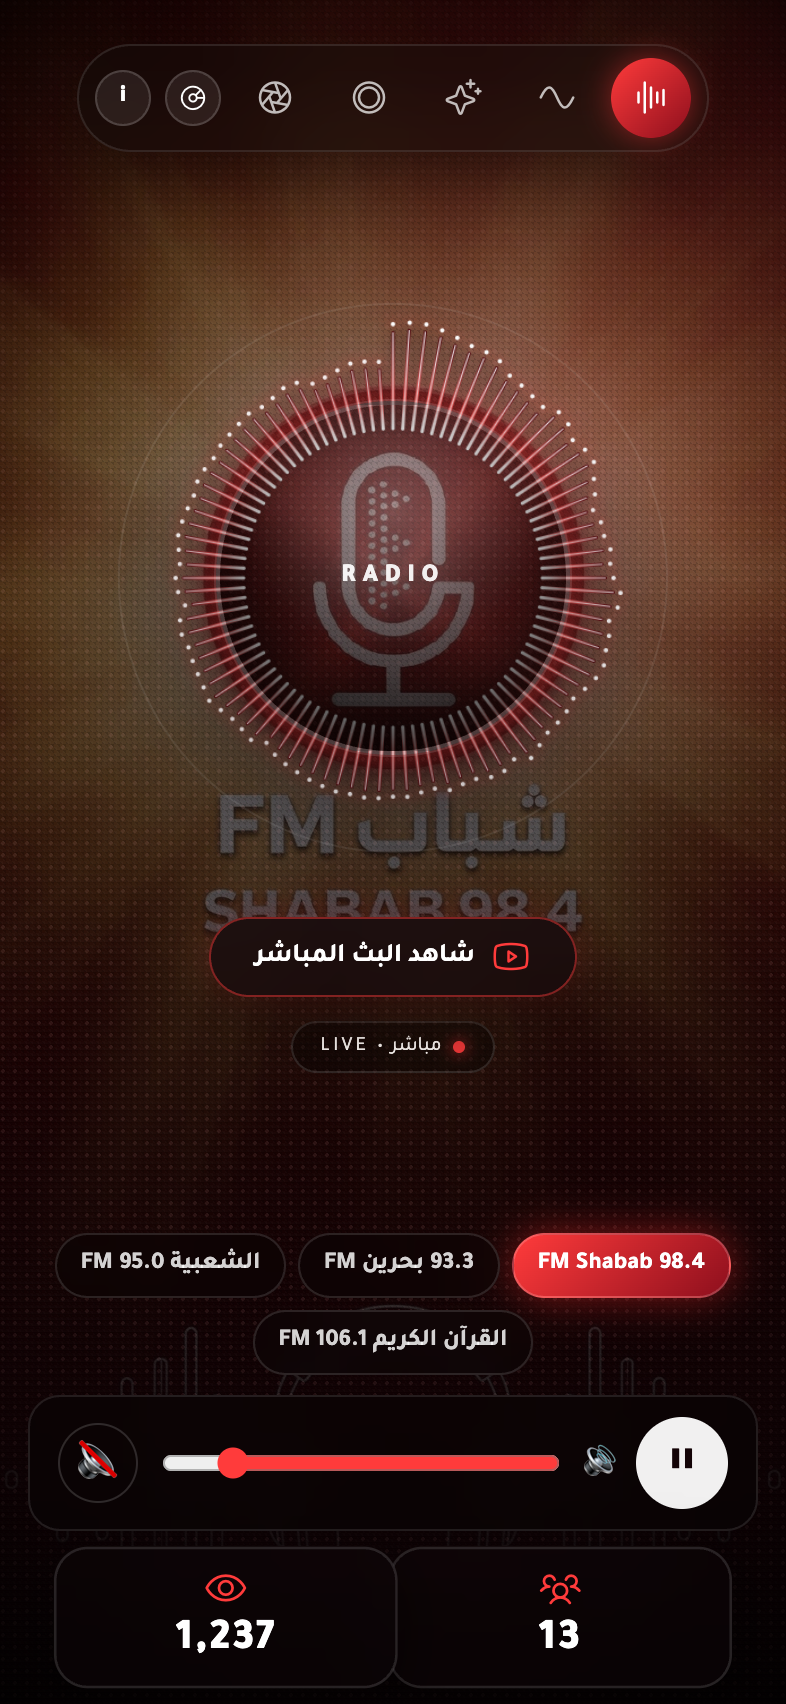
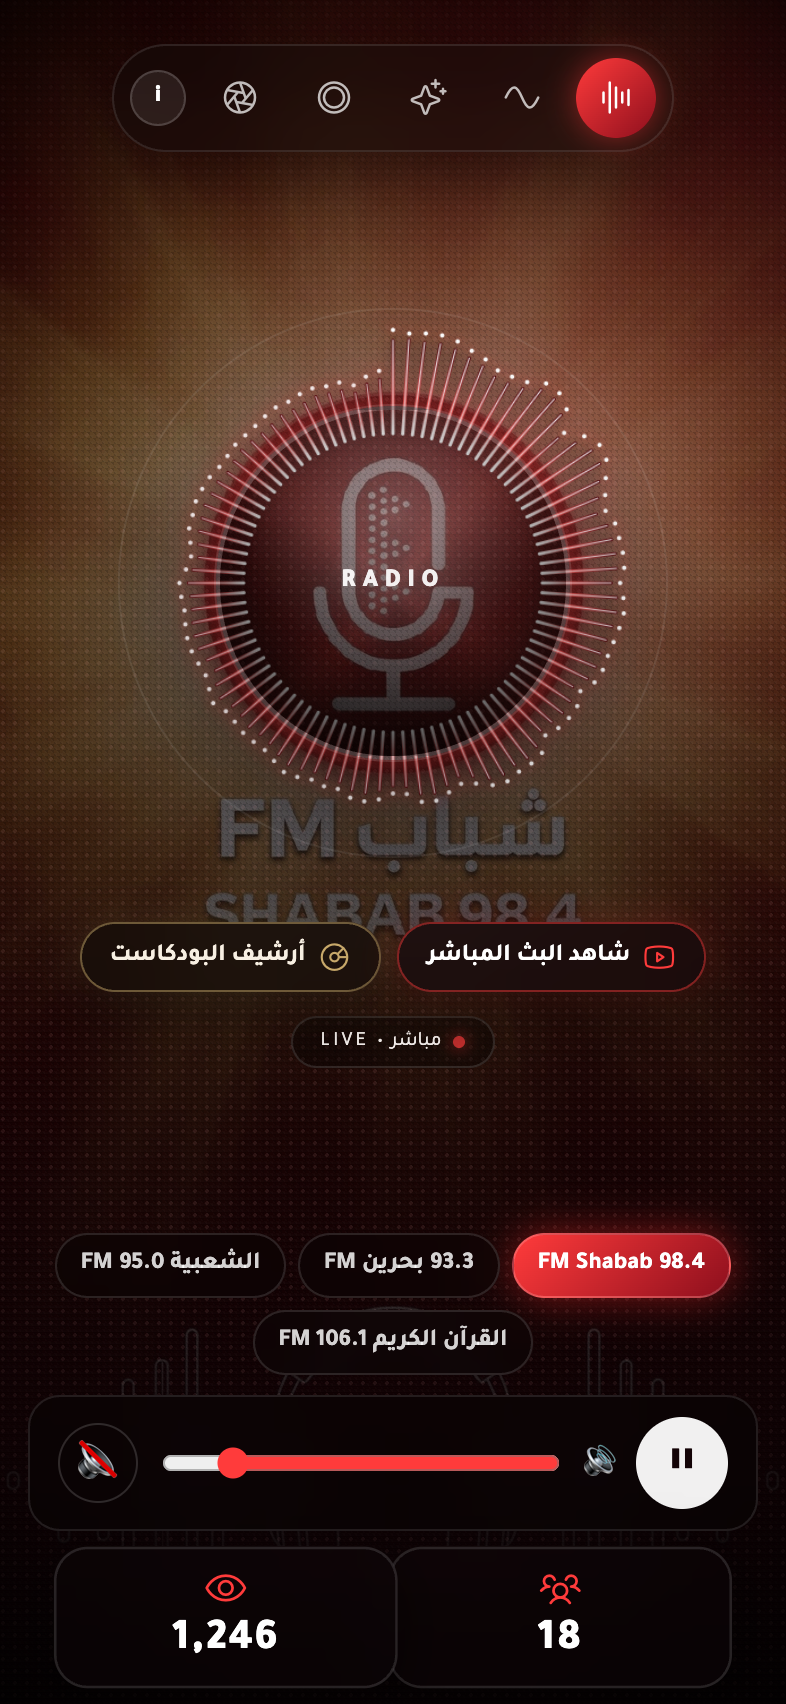
feat: update podcast button design and improve version injection in build script

diff --git a/public/index.html b/public/index.html
@@ -12,6 +12,7 @@
     <link rel="shortcut icon" href="./favicon.ico" />
     <link rel="apple-touch-icon" sizes="180x180" href="./apple-touch-icon.png" />
     <link rel="manifest" href="./site.webmanifest" />
+    <meta name="version" content="1.7.661" />
     <style>
       @font-face {
         font-family: 'Tajawal';
@@ -178,14 +179,6 @@
         background: linear-gradient(135deg, var(--red), var(--red-strong));
         color: white; box-shadow: 0 0 16px rgba(255, 59, 59, 0.5);
       }
-      .podcast-btn {
-        width: 28px; height: 28px; display: grid; place-items: center; border-radius: 50%;
-        background: rgba(255,255,255,0.08); border: 1px solid rgba(255,255,255,0.16); color: white;
-        font-size: 15px; text-decoration: none; transition: all 0.2s ease;
-      }
-      .podcast-btn:hover {
-        background: rgba(200, 169, 106, 0.3); border-color: #c8a96a; color: #f7e7c4; transform: translateY(-1px);
-      }
       .about-btn {
         width: 28px; height: 28px; display: grid; place-items: center; border-radius: 50%;
         background: rgba(255,255,255,0.08); border: 1px solid rgba(255,255,255,0.16); color: white; font-size: 12px; font-weight: 800;
@@ -329,34 +322,50 @@
         border-color: rgba(255, 59, 59, 0.6);
         color: #fff;
       }
+      .stage-actions {
+        display: flex;
+        flex-wrap: wrap;
+        justify-content: center;
+        align-items: center;
+        gap: 10px;
+        margin-top: 10px;
+        margin-bottom: 6px;
+        padding: 0 14px;
+        z-index: 20;
+      }
       .yt-live-btn-wrap {
         display: flex;
         justify-content: center;
         align-items: center;
-        margin-top: 10px;
-        margin-bottom: 6px;
+        margin: 0;
         z-index: 20;
         transition: opacity 0.3s ease, transform 0.3s ease;
       }
       .yt-live-btn-wrap.hidden {
         display: none !important;
       }
-      .watch-live-btn {
+      .watch-live-btn,
+      .podcast-btn {
         display: inline-flex;
         align-items: center;
+        justify-content: center;
         gap: 8px;
-        padding: 9px 22px;
+        padding: 9px 20px;
         border-radius: 9999px;
-        background: rgba(18, 6, 10, 0.68);
-        border: 1px solid rgba(255, 59, 59, 0.45);
-        box-shadow: 0 10px 28px rgba(0, 0, 0, 0.45), 0 0 20px rgba(255, 59, 59, 0.22);
-        color: #ffffff;
         font-size: 13px;
         font-weight: 700;
+        text-decoration: none;
         cursor: pointer;
         backdrop-filter: blur(18px);
         -webkit-backdrop-filter: blur(18px);
         transition: all 0.25s cubic-bezier(0.4, 0, 0.2, 1);
+        white-space: nowrap;
+      }
+      .watch-live-btn {
+        background: rgba(18, 6, 10, 0.68);
+        border: 1px solid rgba(255, 59, 59, 0.45);
+        box-shadow: 0 10px 28px rgba(0, 0, 0, 0.45), 0 0 20px rgba(255, 59, 59, 0.22);
+        color: #ffffff;
       }
       .watch-live-btn i {
         font-size: 20px;
@@ -372,8 +381,31 @@
       .watch-live-btn:hover i {
         transform: scale(1.15);
       }
-      .watch-live-btn:active {
+      .watch-live-btn:active,
+      .podcast-btn:active {
         transform: translateY(0) scale(0.98);
+      }
+      .podcast-btn {
+        background: rgba(20, 12, 8, 0.72);
+        border: 1px solid rgba(200, 169, 106, 0.48);
+        box-shadow: 0 10px 28px rgba(0, 0, 0, 0.45), 0 0 20px rgba(200, 169, 106, 0.18);
+        color: #f7efe2;
+      }
+      .podcast-btn i {
+        font-size: 19px;
+        color: #c8a96a;
+        transition: transform 0.35s ease, color 0.25s ease;
+      }
+      .podcast-btn:hover {
+        background: linear-gradient(135deg, rgba(56, 36, 14, 0.92), rgba(24, 10, 8, 0.92));
+        border-color: rgba(232, 213, 176, 0.85);
+        box-shadow: 0 14px 36px rgba(0, 0, 0, 0.6), 0 0 28px rgba(200, 169, 106, 0.35);
+        color: #ffffff;
+        transform: translateY(-2px) scale(1.03);
+      }
+      .podcast-btn:hover i {
+        color: #e8d5b0;
+        transform: rotate(35deg) scale(1.15);
       }
       .yt-video-wrapper {
         position: relative;
@@ -650,7 +682,17 @@
 
       @media (max-width: 560px) {
         .stage { padding-bottom: 1vh; }
-        .yt-live-btn-wrap { margin-top: 28px; margin-bottom: 4px; }
+        .stage-actions { margin-top: 28px; margin-bottom: 4px; gap: 8px; padding: 0 10px; }
+        .watch-live-btn,
+        .podcast-btn {
+          padding: 8px 14px;
+          font-size: 12px;
+          gap: 6px;
+        }
+        .watch-live-btn i,
+        .podcast-btn i {
+          font-size: 17px;
+        }
         .bottom { gap: 10px; padding: 0 14px calc(12px + env(safe-area-inset-bottom, 0px)); }
         .bottom-footer { margin-top: 4px; }
         .bottom-footer .splash-counter-wrap { gap: 10px; }
@@ -684,7 +726,7 @@
         margin-top: 4px;
       }
 
-      .top-nav, .logo-stack, #ytLiveSection, #ytLiveBtnWrap, .status, .station-pill, .controls {
+      .top-nav, .logo-stack, #ytLiveSection, #stageActions, #ytLiveBtnWrap, #btnPodcasts, .status, .station-pill, .controls {
         opacity: 0;
         visibility: hidden;
       }
@@ -724,12 +766,11 @@
           <button class="mode-btn" data-mode="particles" type="button" aria-label="Particles"><i class="ph ph-sparkle"></i></button>
           <button class="mode-btn" data-mode="pulse" type="button" aria-label="Pulse"><i class="ph ph-record"></i></button>
           <button class="mode-btn" data-mode="nebula" type="button" aria-label="Nebula"><i class="ph ph-aperture"></i></button>
-          <a href="/podcasts" class="podcast-btn" title="أرشيف البودكاست • Podcasts" aria-label="أرشيف البودكاست"><i class="ph ph-disc"></i></a>
           <button class="about-btn" id="aboutBtn" type="button" aria-label="About">i</button>
         </div>
         <div class="about-tray" id="aboutTray">
           <div class="line1 ar">صنع بكل حب في البحرين</div>
-          <div class="line2 ar">م/ حسن الدوي 2026</div>
+          <div class="line2 ar">م/ حسن الدوي 2026 • <span id="appVersionText" dir="ltr">v1.7.661</span></div>
         </div>
       </div>
 
@@ -776,11 +817,17 @@
           </div>
         </div>
 
-        <div id="ytLiveBtnWrap" class="yt-live-btn-wrap">
-          <button id="btnWatchLive" class="watch-live-btn ar" type="button" aria-label="شاهد البث المباشر">
-            <i class="ph ph-youtube-logo"></i>
-            <span>شاهد البث المباشر</span>
-          </button>
+        <div id="stageActions" class="stage-actions">
+          <div id="ytLiveBtnWrap" class="yt-live-btn-wrap">
+            <button id="btnWatchLive" class="watch-live-btn ar" type="button" aria-label="شاهد البث المباشر">
+              <i class="ph ph-youtube-logo"></i>
+              <span>شاهد البث المباشر</span>
+            </button>
+          </div>
+          <a id="btnPodcasts" href="/podcasts" class="podcast-btn ar" title="أرشيف البودكاست • Podcasts" aria-label="أرشيف البودكاست">
+            <i class="ph ph-disc"></i>
+            <span>أرشيف البودكاست</span>
+          </a>
         </div>
 
         <div class="status">
@@ -1492,7 +1539,7 @@
           .call(playEntrance, [], 0.95);
       }
 
-      const stageTargets = ['.top-nav', '.logo-stack', '#ytLiveSection', '#ytLiveBtnWrap', '.status', '.station-pill', '.controls'];
+      const stageTargets = ['.top-nav', '.logo-stack', '#ytLiveSection', '#stageActions', '#ytLiveBtnWrap', '#btnPodcasts', '.status', '.station-pill', '.controls'];
       gsap.set(stageTargets, { visibility: 'hidden' });
 
       const entranceTl = gsap.timeline({
@@ -1505,7 +1552,7 @@
       entranceTl
         .fromTo('.top-nav', { y: -30, opacity: 0 }, { y: 0, opacity: 1, duration: 1 }, 0.3)
         .fromTo('.logo-stack', { scale: 0.8, opacity: 0 }, { scale: 1, opacity: 1, duration: 1.2 }, '-=0.6')
-        .fromTo(['#ytLiveSection', '#ytLiveBtnWrap'], { y: 14, opacity: 0 }, { y: 0, opacity: 1, duration: 0.8 }, '-=0.8')
+        .fromTo(['#ytLiveSection', '#stageActions', '#ytLiveBtnWrap', '#btnPodcasts'], { y: 14, opacity: 0 }, { y: 0, opacity: 1, duration: 0.8 }, '-=0.8')
         .fromTo('.status', { opacity: 0, y: 14 }, { opacity: 1, y: 0, duration: 0.8 }, '-=0.8')
         .fromTo('.station-pill', { y: 20, opacity: 0 }, { y: 0, opacity: 1, duration: 0.8, stagger: 0.1 }, '-=0.8')
         .fromTo('.controls', { y: 20, opacity: 0 }, { y: 0, opacity: 1, duration: 0.8 }, '-=0.6');

diff --git a/build.ts b/build.ts
@@ -76,20 +76,42 @@ export async function build() {
   html = html.replaceAll("../node_modules/gsap/dist/gsap.js", "./lib/gsap.js");
   html = html.replaceAll("../node_modules/hls.js/dist/hls.js", "./lib/hls.js");
 
-  // Inject or update version meta tag
+  // Inject or update version meta tag and inline version badge in public/index.html and dist/index.html
   const versionMetaTag = `    <meta name="version" content="${version}" />`;
-  if (html.includes('<meta name="version"')) {
-    html = html.replace(/<meta\s+name=["']version["']\s+content=["'][^"']*["']\s*\/?>/i, versionMetaTag.trim());
-  } else {
-    html = html.replace("</head>", `${versionMetaTag}\n  </head>`);
-  }
+  const injectVersionIntoHtml = (content: string) => {
+    let out = content;
+    if (out.includes('<meta name="version"')) {
+      out = out.replace(/<meta\s+name=["']version["']\s+content=["'][^"']*["']\s*\/?>/i, versionMetaTag.trim());
+    } else {
+      out = out.replace("</head>", `${versionMetaTag}\n  </head>`);
+    }
+    out = out.replace(
+      /(<span\s+id=["']appVersionText["'][^>]*>)v?[^<]*(<\/span>)/i,
+      `$1v${version}$2`
+    );
+    return out;
+  };
+
+  try {
+    const pubIndex = await readFile("public/index.html", "utf-8");
+    const updatedPubIndex = injectVersionIntoHtml(pubIndex);
+    if (updatedPubIndex !== pubIndex) {
+      await writeFile("public/index.html", updatedPubIndex, "utf-8");
+    }
+  } catch {}
+
+  html = injectVersionIntoHtml(html);
   await writeFile(indexPath, html, "utf-8");
 
-  // Update podcasts.html and podcasts/index.html paths if present
+  // Update podcasts.html and podcasts/index.html paths and version meta tag if present
   const podcastsPath = join("dist", "podcasts.html");
   try {
-    let podHtml = await readFile(podcastsPath, "utf-8");
-    podHtml = podHtml.replaceAll("../node_modules/gsap/dist/gsap.js", "/lib/gsap.js");
+    let pubPodHtml = await readFile("public/podcasts.html", "utf-8");
+    pubPodHtml = injectVersionIntoHtml(pubPodHtml);
+    await writeFile("public/podcasts.html", pubPodHtml, "utf-8");
+    await writeFile("public/podcasts/index.html", pubPodHtml, "utf-8");
+
+    let podHtml = pubPodHtml.replaceAll("../node_modules/gsap/dist/gsap.js", "/lib/gsap.js");
     await writeFile(podcastsPath, podHtml, "utf-8");
     await mkdir(join("dist", "podcasts"), { recursive: true });
     await writeFile(join("dist", "podcasts", "index.html"), podHtml, "utf-8");

diff --git a/tests/e2e.test.ts b/tests/e2e.test.ts
@@ -129,13 +129,15 @@ test("Desktop Live Player: splash screen, circle alignment, station switching, a
     return {
       dx: Math.abs(focusX - btnCx),
       dy: Math.abs(focusY - btnCy),
-      hasPodcastLink: !!document.querySelector('a.podcast-btn[href="/podcasts"]'),
+      hasPodcastLinkInStage: !!document.querySelector('#stageActions a.podcast-btn[href="/podcasts"]'),
+      hasPodcastLinkInTopNav: !!document.querySelector('.top-nav a[href="/podcasts"]'),
     };
   });
 
   expect(alignment.dx).toBeLessThan(2);
   expect(alignment.dy).toBeLessThan(2);
-  expect(alignment.hasPodcastLink).toBe(true);
+  expect(alignment.hasPodcastLinkInStage).toBe(true);
+  expect(alignment.hasPodcastLinkInTopNav).toBe(false);
 
   await page.screenshot({ path: `${SCREENSHOTS_DIR}/player-hero-desktop.png` });
   await copyFile(`${SCREENSHOTS_DIR}/player-hero-desktop.png`, `${SCREENSHOTS_DIR}/player-desktop.png`);
@@ -271,6 +273,15 @@ test("3D Podcasts Archive (/podcasts): Cover-Flow carousel, vinyl physics, episo
   await new Promise((r) => setTimeout(r, 400));
   await page.click("#nextBtn");
   await new Promise((r) => setTimeout(r, 1400));
+  await page
+    .waitForFunction(
+      () => {
+        const img = document.querySelector(".slide .sleeve.active img") as HTMLImageElement | null;
+        return !!img && img.complete && img.naturalWidth > 100;
+      },
+      { timeout: 10000 }
+    )
+    .catch(() => {});
 
   const afterNavState = await page.evaluate(() => {
     const activeSleeve = document.querySelector(".slide .sleeve.active") as HTMLElement | null;

diff --git a/public/podcasts.html b/public/podcasts.html
@@ -181,7 +181,8 @@ body { background: var(--bg); color: var(--text); overflow: hidden; transition: 
   .episodesGrid { padding: 12px 16px 24px; grid-template-columns: 1fr; gap: 8px; }
 }
 </style>
-</head>
+    <meta name="version" content="1.7.661" />
+  </head>
 <body>
 <div class="grain"></div>
 <div class="blob b1"></div><div class="blob b2"></div>

diff --git a/public/podcasts/index.html b/public/podcasts/index.html
@@ -181,7 +181,8 @@ body { background: var(--bg); color: var(--text); overflow: hidden; transition: 
   .episodesGrid { padding: 12px 16px 24px; grid-template-columns: 1fr; gap: 8px; }
 }
 </style>
-</head>
+    <meta name="version" content="1.7.661" />
+  </head>
 <body>
 <div class="grain"></div>
 <div class="blob b1"></div><div class="blob b2"></div>

diff --git a/README.md b/README.md
@@ -65,7 +65,7 @@ A self-contained, Bun-powered live radio broadcast player and interactive 3D dig
 
 ### 1.2 3D Vinyl Podcasts Archive (`/podcasts`) — Dark & Light Themes
 
-Accessible from the top navigation bar's vinyl disc button (`<a href="/podcasts" class="podcast-btn">`) or directly via `/podcasts` and `/podcasts.html`. The highlighted album features an exclusive dual-layer specular shine and a spinning grooved vinyl record that peeks out to reveal its custom center label and spindle hole:
+Accessible from the dedicated **أرشيف البودكاست** action pill (`<a id="btnPodcasts" href="/podcasts" class="podcast-btn">` inside `#stageActions`, right beside **شاهد البث المباشر**) or directly via `/podcasts` and `/podcasts.html`. The highlighted album features an exclusive dual-layer specular shine and a spinning grooved vinyl record that peeks out to reveal its custom center label and spindle hole:
 
 | 3D Cover-Flow Carousel (Dark Theme `#120204`) | 3D Cover-Flow Carousel (Light Theme `#fdfaf8`) |
 | :---: | :---: |
